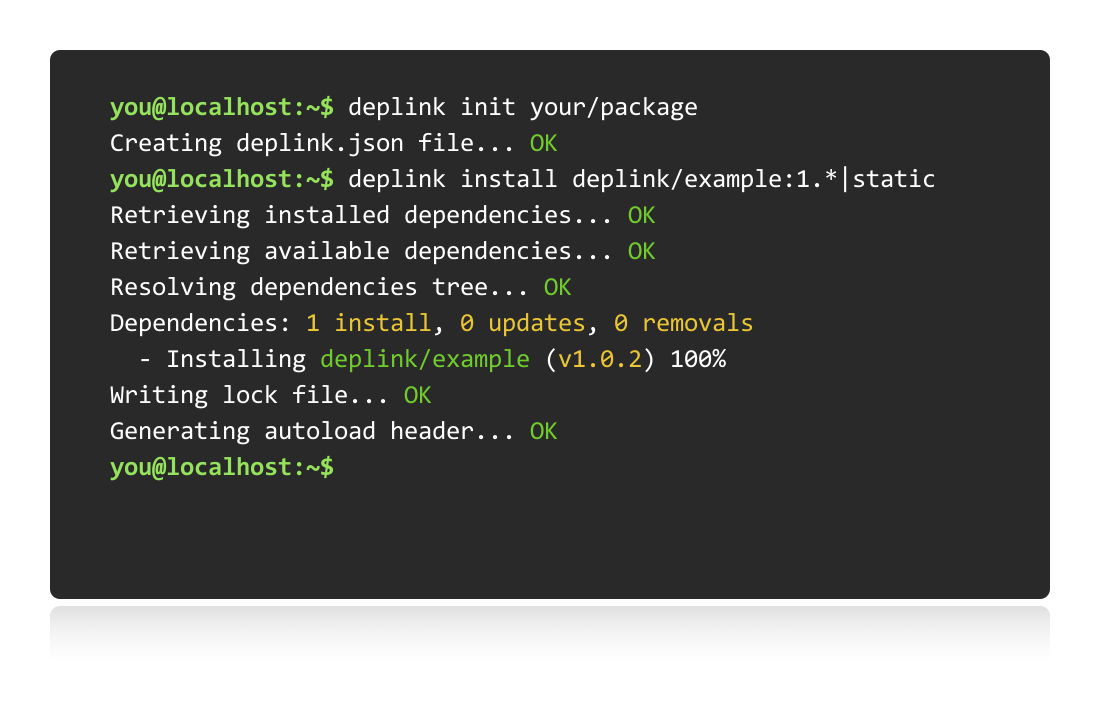
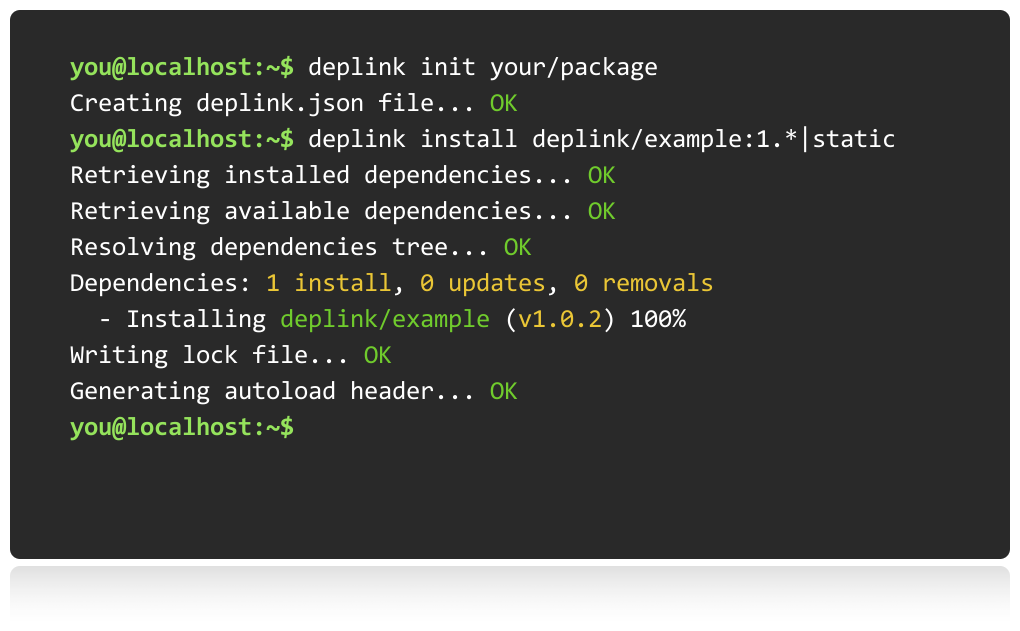
Adjust image

Changed region(s): [[0.0, 0.0, 1.0, 0.9334]]

diff --git a/readme.md b/readme.md
@@ -6,4 +6,4 @@
 
 <p align="center">Deplink frees you from manual downloading, building and linking dependencies.</p>
 
-<p align="center"><img src="https://github.com/deplink/deplink/blob/master/resources/images/github.png?raw=true" alt="Deplink usage example" width="550"></p>
+<p align="center"><img src="https://github.com/deplink/deplink/blob/master/resources/images/github.png?raw=true" alt="Deplink usage example" width="600"></p>
